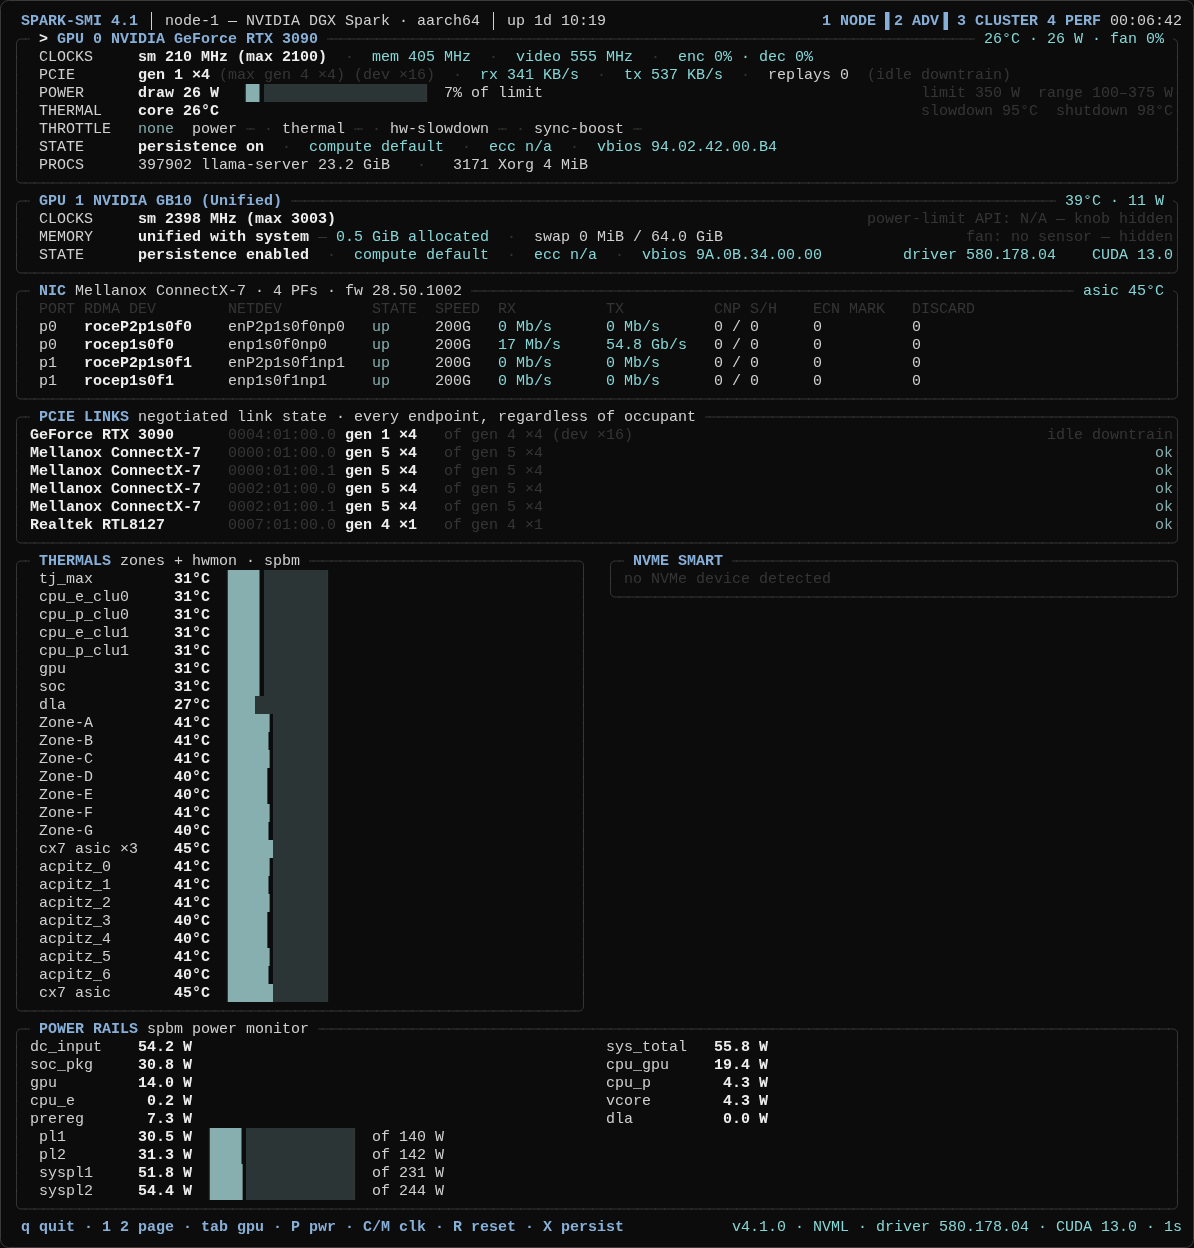
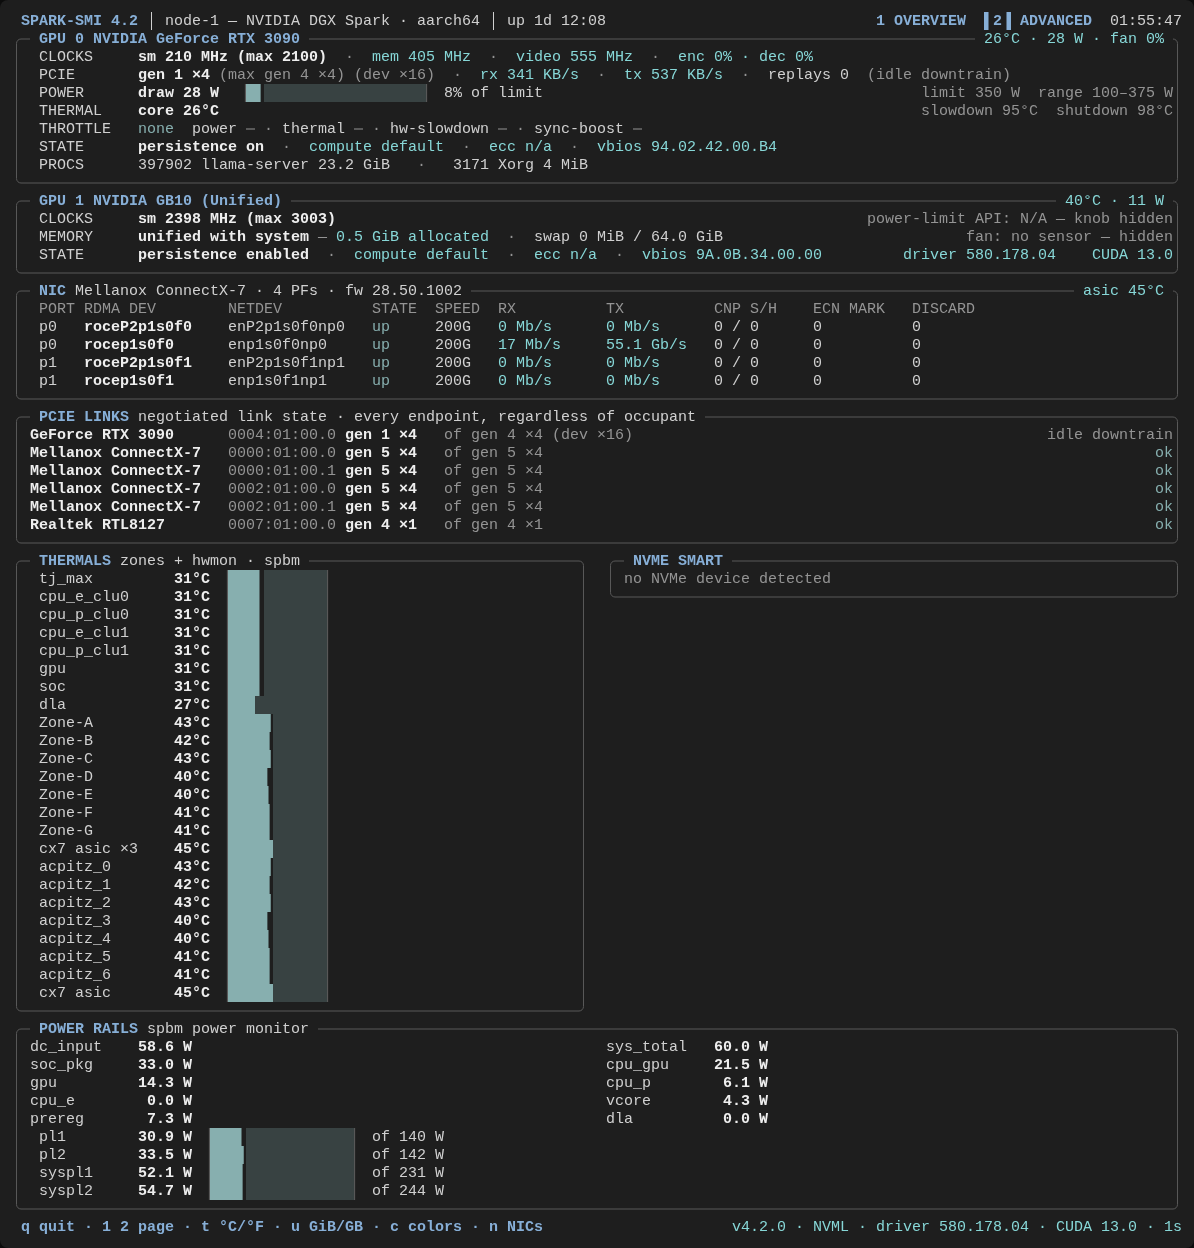
Re-capture README images in the 4.2 look
Pages 1 and 2 written by --shot, page 3 by the live S key, demo and resize
GIFs re-recorded; every frame checked for real host names and addresses.

Claude-Session: https://claude.ai/code/session_01X9kn5ZPV9eKqrf91VqQXp5

diff --git a/README.md b/README.md
@@ -563,9 +563,10 @@ spark-smi -l --cluster node-1,node-2,node-3,node-4
 
 ## Screenshots
 
-Captured on two DGX Sparks, one with an RTX 3090 attached, in the `nord`
-theme, with an iperf3 run on the first ConnectX-7 port and the node names
-set with `--node-name`.
+Captured with spark-smi 4.2 on two DGX Sparks, one with an RTX 3090
+attached, in the `nord` theme, with an iperf3 run on the first ConnectX-7
+port and the node names set with `--node-name`. Pages 1 and 2 were written
+by `--shot` itself; page 3 was saved with the live `S` key.
 
 ### Make your own
 
@@ -583,8 +584,8 @@ are drawn as shapes, so they line up in any viewer whatever fonts it has;
 text stays selectable. A page is about 20-45 KB.
 
 **Page 1 — Overview.** Hybrid Cortex-X925/A725 clusters, unified memory split
-into process/GPU/cache segments, both GPUs side by side, RDMA-aware NIC
-rates, storage.
+into process/GPU/cache segments, both GPUs side by side, and mirrored
+upload/download history for every NIC port and disk.
 
 ![Page 1 overview](https://raw.githubusercontent.com/chappa-ai-llc/spark-smi/main/screenshots/page1-overview.png)
 

diff --git a/CHANGELOG.md b/CHANGELOG.md
@@ -4,6 +4,15 @@ All notable changes to SPARK-SMI are documented here. The format follows
 [Keep a Changelog](https://keepachangelog.com/en/1.1.0/), and this project
 adheres to [Semantic Versioning](https://semver.org/spec/v2.0.0.html).
 
+## [Unreleased]
+
+### Changed
+
+- README images re-captured with spark-smi 4.2.0 (mirrored history, graded
+  graphs, measured nord theme): the demo and resize GIFs and the page 1, 2
+  and 3 screenshots, pages 1 and 2 written by `--shot`, page 3 by the `S`
+  key.
+
 ## [4.2.0] — 2026-11-24
 
 A visual upgrade: mirrored traffic history, graded graphs, themes measured
